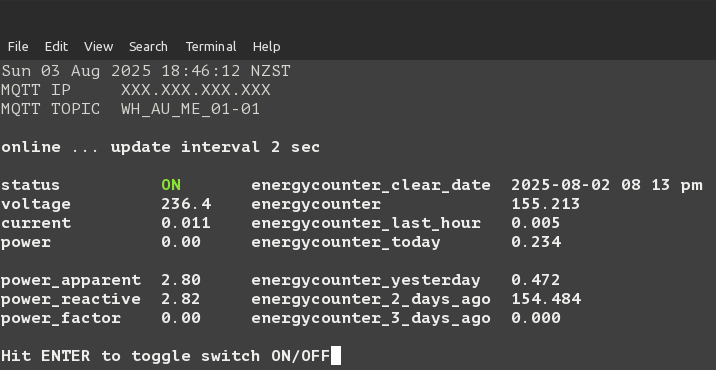
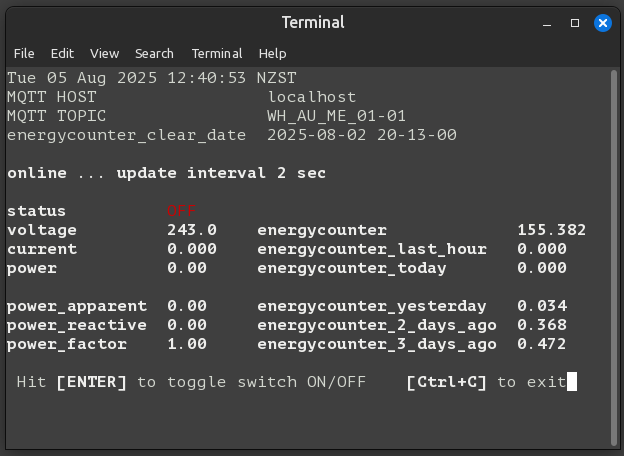
Config file and ui changes

diff --git a/README.md b/README.md
@@ -1,41 +1,73 @@
-# Smart_Plug.sh
+## smartplug.sh
   cli smart plug monitor for Open BK7231N firmware with power monitoring. ( https://github.com/openshwprojects/OpenBK7231T_App/releases )
-  ## Summary:
 
-- The script spawns a background shell that invokes `mosquitto_sub` and creates an in memory directory structure of the "$_BROKER" "$_TOPIC".
-- The foreground process iterates over the directory structure and presents the current state of the smart plug while waiting for input to toggle the switch on/off.
-  
+## SYNOPSIS:
+    smartplug.sh -u [USERNAME] -p [PASSWORD] -h [MQTT HOST] -t [TOPIC] -r [REFRESH INTERVAL]
+    smartplug.sh -c [FILE] -t [TOPIC] -r [REFRESH INTERVAL]
+    smartplug.sh -c [FILE]
+
+## DESCRIPTION:
+
+- smartplug.sh spawns a background shell that invokes `mosquitto_sub` and creates an in memory directory structure of the "$_BROKER" "$_TOPIC".
+- The foreground process iterates over the directory structure and presents the current state of the smart plug. [enter] toggles the switch on/off. [ctrl+c} to exit
+- Later command line options will overide previous options. So you can connect to different topics by using the -t option after -c smartplug.conf. Or by leaving the $_TOPIC variable unset in the configuration file.
+
 <img width="716" height="370" alt="Smart_Plug sh" src="https://github.com/user-attachments/assets/f712cab1-9abd-4ee3-904c-1e7e95b2315e" />
 
-## Dependencys:
-- A smart plug connected to a mosquitto server
-  - server ref : ( https://mosquitto.org/download/ )
-  - mqtt protocol ref: ( https://www.hivemq.com/blog/mqtt-essentials-part-1-introducing-mqtt/ )
-  - firmware ref : ( https://github.com/openshwprojects/OpenBK7231T_App )
-  ```
-  sudo apt install mosquitto
-  ```
-- mosquitto client
-  ```
-  sudo apt install mosquitto-clients
-  ```
-- $XDG_RUNTIME_DIR
-  ```
+## OPTIONS:
+
+    -u  [USERNAME]
+            Mosquitto server username.
+    -p  [PASSWORD]
+            Mosquitto server password.
+    -h  [MQTT HOST]
+            Mosquitto server hostname or IP address.
+    -t  [TOPIC]
+            Mosquitto server topic to subscribe to.
+    -r  [REFRESH INTERVAL]
+            Number of seconds between updates to the frontend. Also the interval
+            between changing the switch state and updating the status ( round trip time ).
+            If left unset will default to 10 seconds
+    -c  [FILE]
+            Configuration file
+
+### smartplug.conf.example
+
+```
+_BROKER="localhost"
+_TOPIC="WH_AU_ME_01-Garage"
+_USERNAME="roger"
+_PASSWORD="RogersSuperSecretPassWord1234"
+_REFRESH="2"
+```
+
+## EXAMPLE:
+
+    $`smartplug.sh -t WH_AU_ME_01-02 -c smartplug.conf`
+
+    $`smartplug.sh -c WH_AU_ME_01.conf`
+
+    $`for file in WH_AU_ME_01*.conf; do gnome-terminal --hide-menubar --geometry=80x24 \
+        -t "$file" -- smartplug.sh -c "$file" & done`
+
+## DEPENDENCYS:
+
+### A smart plug connected to a mosquitto server and mosquitto_sub.
+
+        - server ref : ( https://mosquitto.org/download/ )
+        - mqtt protocol ref: ( https://www.hivemq.com/blog/mqtt-essentials-part-1-introducing-mqtt/ )
+        - firmware ref : ( https://github.com/openshwprojects/OpenBK7231T_App )
+```
+  sudo apt install mosquitto mosquitto-clients
+```
+
+### A temporary file system in ram.
+
+        - $XDG_RUNTIME_DIR
+```
   echo "$XDG_RUNTIME_DIR"
-  ```
-  "/run/users/????" ... should be set up by systemd ?
-
-## Usage:
-Smart_Plug.sh -u [USERNAME] -p [PASSWORD] -h [MQTT HOST] -t [TOPIC] -r [REFRESH INTERVAL]
-
-Or edit the variables at the top of the shell script and just call Smart_Plug.sh on its own.
 ```
-_BROKER="MQTT server IP address"
-_TOPIC="Sometimes called the client/base topic"
-_USERNAME="MQTT server username"
-_PASSWORD="MQTT server password"
-_TIMEOUT="Seconds to wait between refreshes"
-```
+        "/run/user/????" ... should be set up by systemd ?
 
 ## Tested with:
 
@@ -48,13 +80,14 @@ _TIMEOUT="Seconds to wait between refreshes"
         ```
         python uartprogram OpenBK7231N_QIO_1.18.141.bin -u -b 115200 -d /dev/serial0  -w -s 0x0
         ```
-        - ref: (https://zorruno.com/2022/zemismart-ks-811-with-openbk7231n-openbeken/)
-        - OTA flash to latest firmware then connect to. (http://192.168.4.1/index) to configure
-        - https://www.elektroda.com/rtvforum/topic3951016.html
+        - uartprogram (https://zorruno.com/2022/zemismart-ks-811-with-openbk7231n-openbeken/)
+        - Connect to. (http://192.168.4.1/index) to configure and OTA flash to latest firmware 
+        - forum thread (https://www.elektroda.com/rtvforum/topic3951016.html) with youtube tutorials.
 
 - Smart Plug starup command
-  `backlog startDriver NTP; SetupEnergyStats 1 60 60;addRepeatingEvent 60 -1 publishChannel 1;PowerSave 1;`
-
+    `backlog startDriver NTP; SetupEnergyStats 1 60 60;addRepeatingEvent 60 -1 publishChannel 1;PowerSave 1;`
+    note the "addRepeatingEvent 60               -1         publishChannel 1"
+                ^repeat         ^every 60sec    ^ forever       ^send channel 1 to mqtt server
   Template:
 [WH_AU_ME_01.json](https://github.com/user-attachments/files/21564964/WH_AU_ME_01.json)
 ```
@@ -62,7 +95,7 @@ _TIMEOUT="Seconds to wait between refreshes"
   "vendor": "Tuya",
   "bDetailed": "0",
   "name": "Smart Plug 16A",
-  "model": "WH_AU_ME_01",
+  "model": "WHDZ01",
   "chip": "BK7231N",
   "board": "WH_AU_ME_01",
   "flags": "1024",
